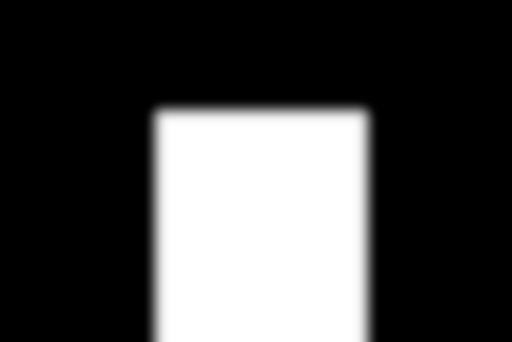
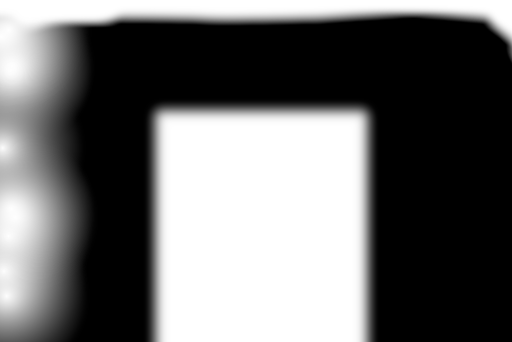
tweaks

Changed region(s): [[0.0, 0.0, 1.0, 1.0]]

diff --git a/src/simulations/blobs.tsx b/src/simulations/blobs.tsx
@@ -6,8 +6,8 @@ export const BlobSimulation = () => {
   useSimulation(
     "webgl",
     `
-        const float TEMPERATURE = 2.0;
-        const float RADIUS = 1.33;
+        const float TEMPERATURE = 0.25;
+        const float RADIUS = 1.53;
    
         float get_average(vec2 uv, float size)
         {
@@ -31,8 +31,6 @@ export const BlobSimulation = () => {
             vec3 noise = texture2D(noise_tex, time*0.001 + uv*0.015*0.15).rgb;
 
             float height = (noise.b*2.0-1.0) * 0.01;
-
-            height -= texture2D(door_tex, -uv).r;
             
             {	
                 vec2 muv = noise.xy;
@@ -41,6 +39,9 @@ export const BlobSimulation = () => {
                 float r = length(p);
                 float a = atan(p.y, p.x);
                 r = pow(r*2.0, 1.0 + height * 0.05);
+
+                r = r + (texture2D(door_tex, -uv).r)/100.0;
+
                 p = r * vec2(cos(a)*0.5, sin(a)*0.5);
                 uv = p + muv;
             }
@@ -55,6 +56,8 @@ export const BlobSimulation = () => {
             float avg = get_average(uv, height*-0.005);
             gl_FragColor.r = sin(avg * (2.3 + TEMPERATURE + height*2.0)) + sin(val);
 
+            gl_FragColor.r *= -texture2D(door_tex, -uv).r+1.0;
+
             
             if (mouse.z > 0.0) 
                 gl_FragColor.r += smoothstep(length(resolution.xy)/5.0, 0.5, length(mouse.xy - gl_FragCoord.xy)) * sin(time*10.0);
@@ -62,14 +65,35 @@ export const BlobSimulation = () => {
   `,
     `
     void main() {
+        vec2 uv = gl_FragCoord.xy / resolution;
+
         float v = texture2D(self, gl_FragCoord.xy/resolution.xy).r;
+        float b = v;
         v *= 0.5;
         v = v * 0.5 + 0.5;
         v = clamp(v, 0.0, 1.0);
+
+
+        vec3 e = vec3(vec2(1.0)/resolution.xy,0.0);
+        float p10 = texture2D(self, uv-e.zy).x;
+        float p01 = texture2D(self, uv-e.xz).x;
+        float p21 = texture2D(self, uv+e.xz).x;
+        float p12 = texture2D(self, uv+e.zy).x;
+            
+        vec3 grad = normalize(vec3(p21 - p01, p12 - p10, 1.));
+        vec3 light = normalize(vec3(.2,-.25,.7));
+        float diffuse = dot(grad,light);
+        float spec = pow(max(0.,-reflect(light,grad).z),32.0);
+                
+        vec3 color = vec3(sin(v*2.0), sin(v*5.0), cos(v*5.0+PI));
+
+        color.r = pow(color.r, 0.5);
+        color.g = pow(color.g, 0.5);
+        color.b = pow(color.b, 0.5);
+
         
-        gl_FragColor.r = v*1.25;
-        gl_FragColor.g = sin(v*0.1)*5.0+v;
-        gl_FragColor.b = pow(v*5.0, 0.5)*0.26;
+
+        gl_FragColor.rgb = ((color * diffuse) + spec) * pow(b, 0.85);
         gl_FragColor.a = 1.0;
       }          
     `

diff --git a/src/simulations/strange-fluid.tsx b/src/simulations/strange-fluid.tsx
@@ -1,3 +1,5 @@
+// BLACK BACKGROUND TO AVOID SQUARE SHAPE
+
 import React from "react";
 import { SimulationCanvas } from "../App";
 import { useSimulation } from "../simulation";
@@ -16,16 +18,16 @@ export const StrangeFluidSimulation = () => {
     {
         float val = get_pixel(0.0, 0.0).r;
         
-        val += random_float(uv, 0.0)*val*0.15; // errosion
+        val += random_float(uv, 1.0)*val*0.15; // errosion
         
         val = get_pixel(
-          sin(get_pixel(val, 0.0).r  - get_pixel(-val, 0.0) + PI).r  * val * 0.4, 
-            cos(get_pixel(0.0, -val).r - get_pixel(0.0 , val) - PI2).r * val * 0.4
+          sin(get_pixel(val, 0.0).r  - get_pixel(-val, 0.0) + PI).r  * val * 0.34, 
+            cos(get_pixel(0.0, -val).r - get_pixel(0.0 , val) - PI2).r * val * 0.34
         ).r;
         if (mouse.z > 0.0) 
           val += smoothstep(length(resolution.xy)/10.0, 0.5, length(mouse.xy - gl_FragCoord.xy));
         
-        val *= 1.001;
+        val *= 1.0;
         
         return val;
     }
@@ -37,8 +39,7 @@ export const StrangeFluidSimulation = () => {
     
         if(frame == 0)
             val = 
-              random_float(uv, 0.0)*length(resolution.xy)/100.0 + 
-              smoothstep(length(resolution.xy)/2.0, 0.5, length(resolution.xy * 0.5 - gl_FragCoord.xy))*25.0;
+              random_float(uv, 1.0)*length(resolution.xy)/100.0;
                     
         gl_FragColor.r = val;
     }
